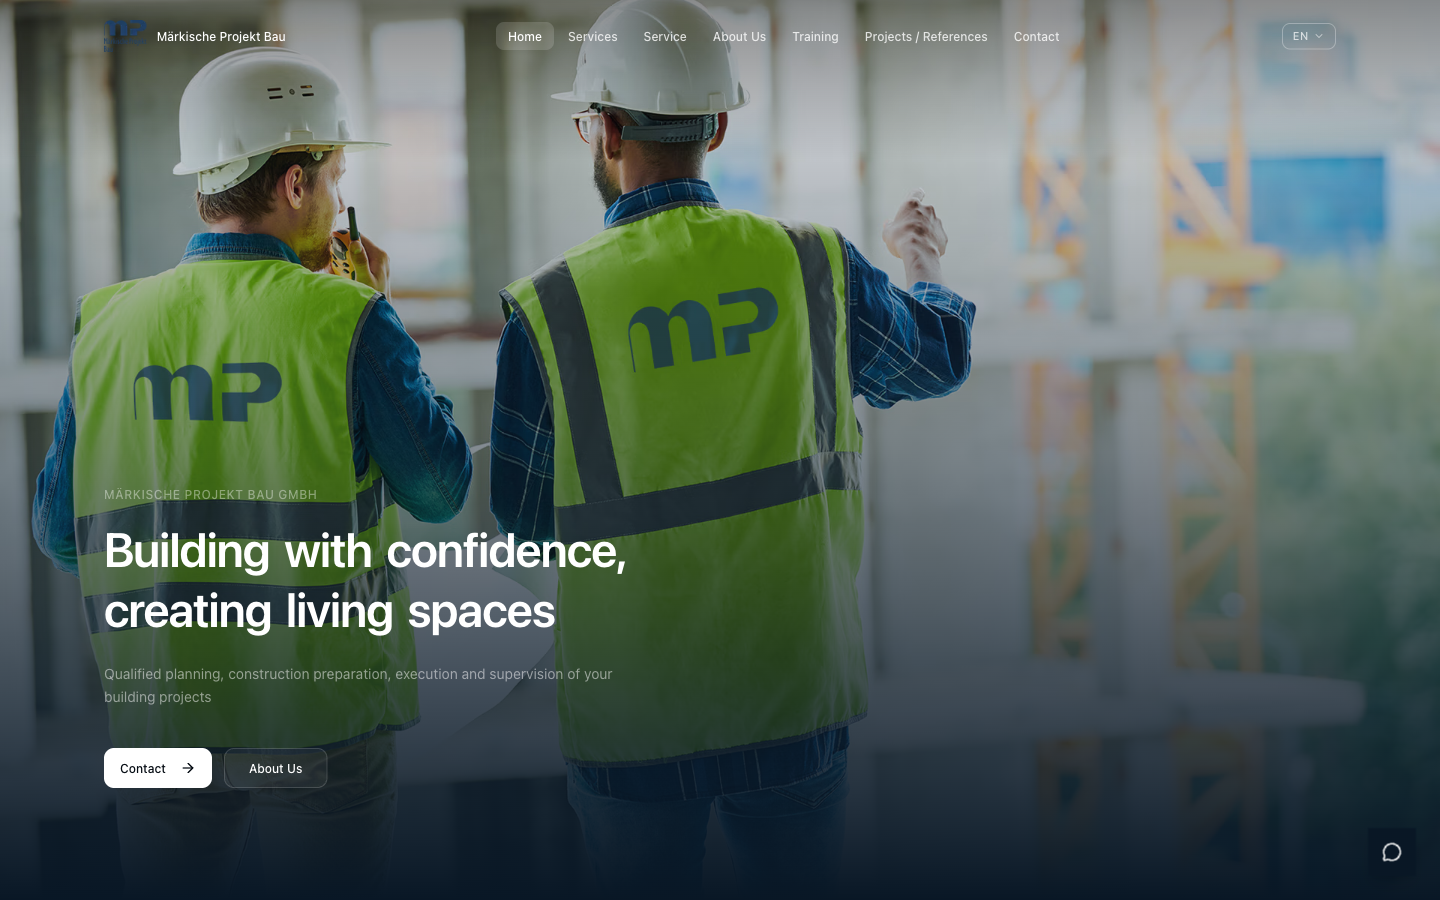
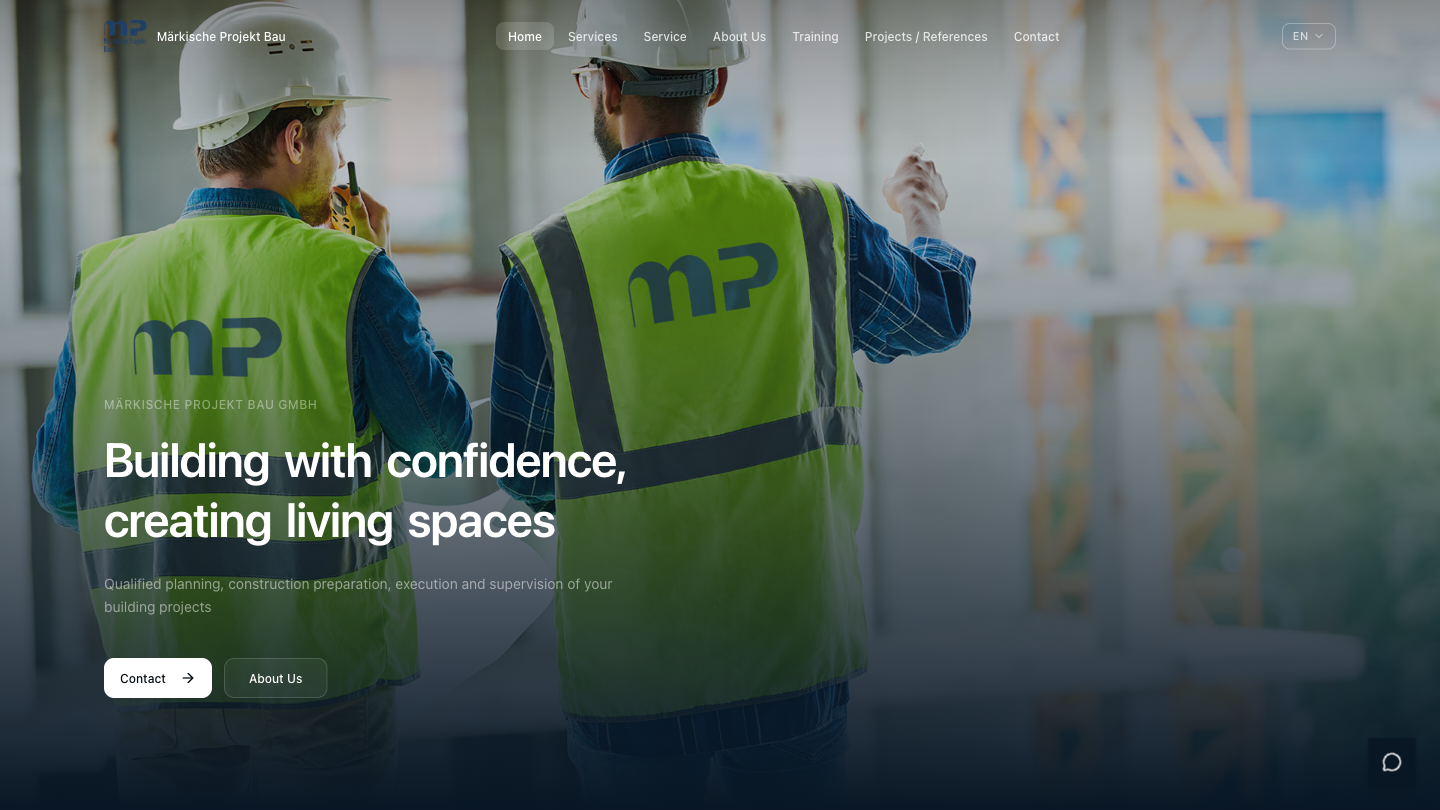
fix: improve case study layout, use hero-only screenshots
- Remove gallery section and extra images from all case studies
- Redesign detail page: split header into 2-col grid, center testimonial,
  side-by-side results layout, 16:9 hero with rounded corners
- Retake all hero screenshots at 1440x810 for proper aspect-video fit
- Delete unused services/projects/benefits/how-it-works screenshots

diff --git a/apps/web/src/app/[locale]/(marketing)/case-studies/[slug]/page.tsx b/apps/web/src/app/[locale]/(marketing)/case-studies/[slug]/page.tsx
@@ -44,27 +44,27 @@ export default async function CaseStudyPage({
 
 	return (
 		<>
-			<section className="py-20 md:py-40">
+			<section className="py-20 md:py-32">
 				<div className="mx-auto max-w-[1200px] px-6">
-					<div className="max-w-2xl">
-						<Link
-							href="/case-studies"
-							className="font-light text-muted-foreground text-sm transition-colors hover:text-foreground"
-						>
-							&larr; {t("backLink")}
-						</Link>
-						<div className="mt-6">
+					<Link
+						href="/case-studies"
+						className="font-light text-muted-foreground text-sm transition-colors hover:text-foreground"
+					>
+						&larr; {t("backLink")}
+					</Link>
+					<div className="mt-10 grid gap-12 md:grid-cols-[1fr_1fr] md:items-end">
+						<div>
 							<span className="font-light text-brand text-xs uppercase tracking-wider">
 								{cs.client} &middot; {cs.industry}
 							</span>
-							<h1 className="mt-2 font-normal text-3xl tracking-tight md:text-5xl">
+							<h1 className="mt-3 font-normal text-3xl tracking-tight md:text-5xl">
 								{cs.title}
 							</h1>
-							<p className="mt-3 font-light text-lg text-muted-foreground">
+							<p className="mt-4 font-light text-lg text-muted-foreground leading-relaxed">
 								{cs.excerpt}
 							</p>
 						</div>
-						<div className="mt-6 flex flex-wrap gap-2">
+						<div className="flex flex-wrap gap-2 md:justify-end">
 							{cs.techStack.map((tech) => (
 								<span
 									key={tech}
@@ -79,14 +79,14 @@ export default async function CaseStudyPage({
 			</section>
 
 			{cs.coverImage && (
-				<section className="pb-12">
+				<section className="pb-16">
 					<div className="mx-auto max-w-[1200px] px-6">
-						<div className="relative aspect-[8/5] w-full overflow-hidden border border-border/40">
+						<div className="relative aspect-video w-full overflow-hidden rounded-sm border border-border/40 shadow-sm">
 							<Image
 								src={cs.coverImage}
 								alt={cs.title}
 								fill
-								className="object-cover"
+								className="object-cover object-top"
 								priority
 							/>
 						</div>
@@ -95,7 +95,7 @@ export default async function CaseStudyPage({
 			)}
 
 			<SectionWrapper id="challenge" alternate>
-				<div className="grid gap-16 md:grid-cols-2">
+				<div className="grid gap-12 md:grid-cols-2 md:gap-16">
 					<div>
 						<h2 className="font-normal text-2xl tracking-tight">
 							{t("challenge")}
@@ -116,57 +116,43 @@ export default async function CaseStudyPage({
 			</SectionWrapper>
 
 			<SectionWrapper id="results">
-				<h2 className="font-normal text-2xl tracking-tight">{t("results")}</h2>
-				<div className="mt-8 max-w-2xl border border-border/40">
-					{cs.results.map((result, i) => (
-						<div
-							key={result}
-							className="flex gap-4 not-last:border-border/40 not-last:border-b px-6 py-4"
-						>
-							<span className="text-brand/60 text-xs">
-								{String(i + 1).padStart(2, "0")}
-							</span>
-							<span className="font-light text-sm">{result}</span>
-						</div>
-					))}
+				<div className="grid gap-12 md:grid-cols-[1fr_2fr] md:items-start">
+					<h2 className="font-normal text-2xl tracking-tight">
+						{t("results")}
+					</h2>
+					<div className="border border-border/40">
+						{cs.results.map((result, i) => (
+							<div
+								key={result}
+								className="flex gap-4 not-last:border-border/40 not-last:border-b px-6 py-4"
+							>
+								<span className="mt-0.5 font-medium text-brand/60 text-xs">
+									{String(i + 1).padStart(2, "0")}
+								</span>
+								<span className="font-light text-sm leading-relaxed">
+									{result}
+								</span>
+							</div>
+						))}
+					</div>
 				</div>
 			</SectionWrapper>
 
 			{cs.testimonial && (
 				<SectionWrapper id="testimonial" alternate>
-					<div className="max-w-2xl">
-						<span className="block font-serif text-5xl text-brand/40 leading-none">
+					<div className="mx-auto max-w-3xl text-center">
+						<span className="block font-serif text-6xl text-brand/30 leading-none">
 							&ldquo;
 						</span>
-						<p className="mt-4 font-light text-lg text-muted-foreground leading-relaxed">
+						<p className="mt-4 font-light text-muted-foreground text-xl leading-relaxed md:text-2xl">
 							{cs.testimonial.quote}
 						</p>
-						<div className="mt-6">
+						<div className="mt-8">
 							<p className="font-medium text-sm">{cs.testimonial.author}</p>
-							<p className="font-light text-muted-foreground text-xs">
+							<p className="mt-1 font-light text-muted-foreground text-xs">
 								{cs.testimonial.role}
 							</p>
 						</div>
-					</div>
-				</SectionWrapper>
-			)}
-
-			{cs.images && cs.images.length > 0 && (
-				<SectionWrapper id="gallery">
-					<div className="grid gap-4 md:grid-cols-2">
-						{cs.images.map((image) => (
-							<div
-								key={image}
-								className="relative aspect-[8/5] overflow-hidden border border-border/40"
-							>
-								<Image
-									src={image}
-									alt={cs.title}
-									fill
-									className="object-cover"
-								/>
-							</div>
-						))}
 					</div>
 				</SectionWrapper>
 			)}
